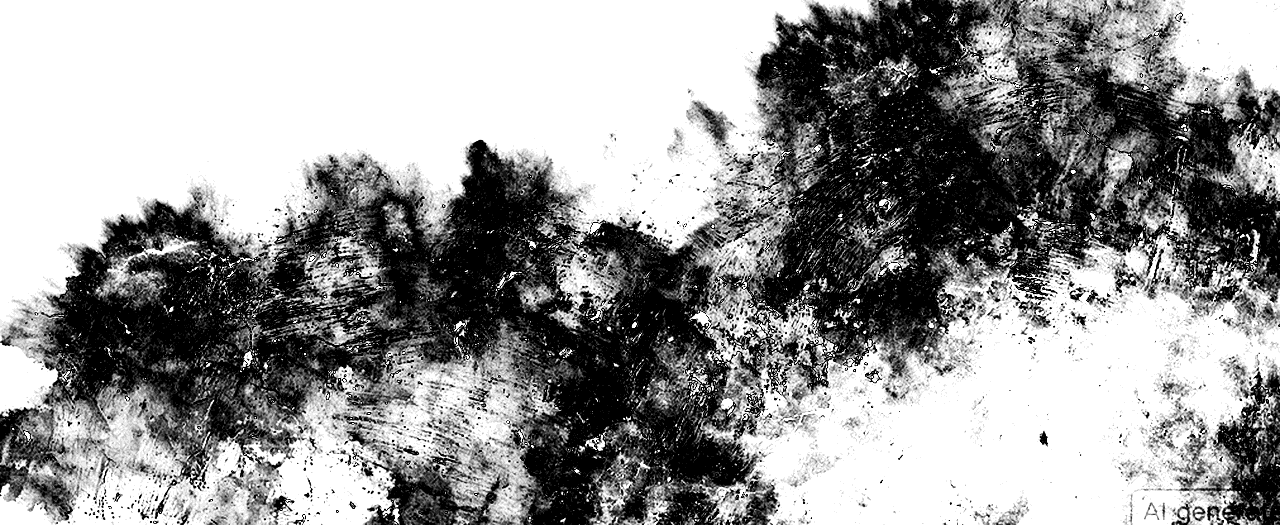
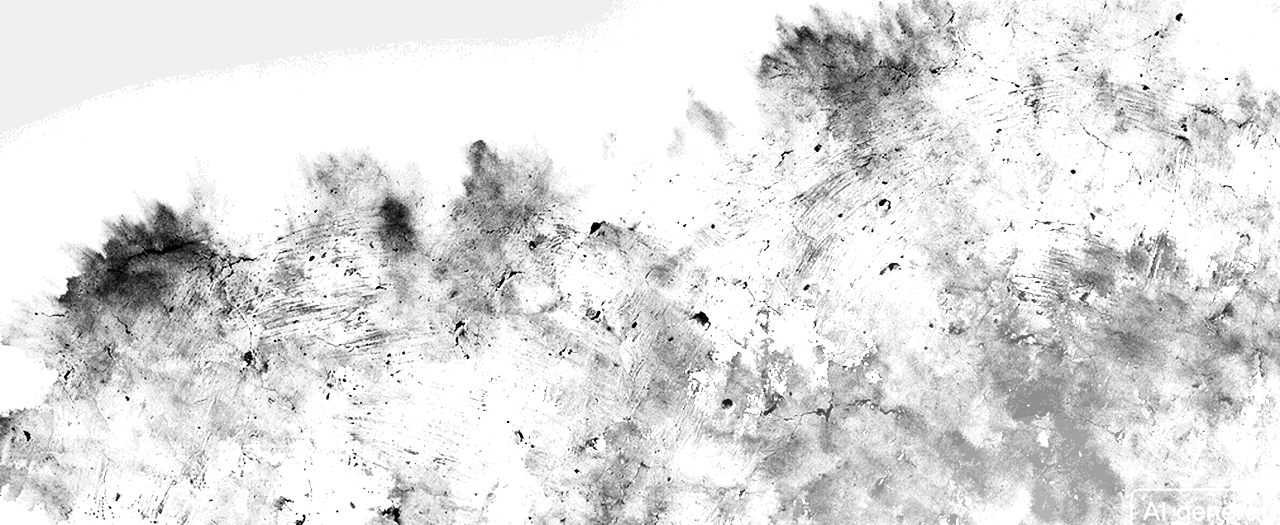
fix(ds): one edge between sections, straight-cut spines, no haze, and a matte clay wall
Four things, and the first is the one that mattered.

A category split into sections was knocking each of them out
separately, so where two met there were two edges hard against each
other: two lips, two shadows, twice the thickness of stone — a seam
that does not exist in one shelf. Neighbouring sections of the same
category on the same level are now knocked out as a single opening,
and what stays between them is what stays in a real shelf: one upright,
lit on one side and shadowed on the other.

Spines were rounded on top and their lids stuck out past the body — the
lid overhung seven pixels to the right and four above, which read as
crooked rather than as volume. The top of a spine is a straight cut
edge; that is what makes it a book and not a tile. The lid now ends
where the side face ends.

The haze is gone from the cut wall. Aerial perspective was an answer to
depth that could not be seen any other way; in a carved wall the cut
carries the depth — the reveals and the dark of the back — and the same
haze over it read as dirt on every cell before anything was even
selected.

And the surface is matte pale clay, nearly featureless. The model draws
a picture — one corner dense, another empty — which is right for a
landscape and wrong for a wall, where it means half the shelf band
sitting in a stain and half on bare sheet. prep-env now subtracts the
texture's own heavily blurred copy: the large swings, which are the
[…]

diff --git a/docs/design-system/prototypes/library-depth-2026-08-26.html b/docs/design-system/prototypes/library-depth-2026-08-26.html
@@ -486,6 +486,11 @@
     background: var(--paper);
     opacity: calc((1 - var(--depth, 1)) * 0.34);
   }
+  /* Повітряна перспектива була відповіддю на глибину, якої не було
+     видно інакше. У вирізаній стіні глибину несе сам виріз — укоси і
+     темрява дна, — і та сама димка поверх нього читалась брудом на
+     кожній комірці ще до будь-якого вибору. */
+  :root[data-env="on"] .niche__box::before { display: none; }
 
   /* Тінь усього блока на стіні — світло згори-справа, тінь сповзає
      вниз-вліво, м'яка і довга, як у предмета, що висить на стіні. */
@@ -646,10 +651,14 @@
   /* Полиця — креслярська лінія по лінійці. */
   /* ---------- книги ---------- */
 
+  /* КОРІНЕЦЬ НЕ ЗАОКРУГЛЮЄТЬСЯ ЗГОРИ. Радіус тут стояв від загального
+     правила «предмет має радіус», але книжка обрізана під ніж: верх
+     корінця — пряма грань, і саме нею він і читається книжкою, а не
+     плиткою. */
   .book {
     position: absolute;
     bottom: 2px;
-    border-radius: var(--r-object) var(--r-object) 0 0;
+    border-radius: 0 0 1px 1px;
     background-color: var(--fill);
     /* Корінець чистий — об'єм несуть грань, кришка і падаюча тінь,
        а не гравюрна штриховка. */
@@ -685,13 +694,19 @@
     transform-origin: left top;
     pointer-events: none;
   }
+  /* Кришка добудовується ЗА тілом корінця, а не поверх нього: раніше
+     вона вилазила праворуч на сім пікселів і зверху на чотири, і
+     книжка виглядала кривою, а не об'ємною. Тепер її права межа
+     збігається з бічною гранню, а нижня стоїть рівно на верхньому
+     ребрі. */
   .book__top {
     position: absolute;
-    left: 1px; right: -7px; top: -4px;
+    left: 0; right: -6px; top: -4px;
     height: 4px;
     background: var(--fill);
     border: 1px solid var(--ink-line);
-    transform: skewX(-46deg);
+    border-bottom: 0;
+    transform: skewX(-50deg);
     transform-origin: left bottom;
     pointer-events: none;
   }
@@ -1133,7 +1148,7 @@
   }
 </style>
 
-<span class="build" aria-hidden="true">зб. 35 · 27.08</span>
+<span class="build" aria-hidden="true">зб. 36 · 27.08</span>
 
 
 <div class="stage" aria-hidden="true">
@@ -1219,7 +1234,8 @@
   <div class="console__group">
     <span class="console__legend">Стіна · фактура</span>
     <div class="chips" id="envs">
-      <button class="chip" data-env="wall-rock" type="button" aria-pressed="true">камінь</button>
+      <button class="chip" data-env="wall-matte" type="button" aria-pressed="true">матова глина</button>
+      <button class="chip" data-env="wall-rock" type="button" aria-pressed="false">камінь</button>
       <button class="chip" data-env="wall-clay" type="button" aria-pressed="false">глина</button>
       <button class="chip" data-env="wall-plaster" type="button" aria-pressed="false">тиньк</button>
       <button class="chip" data-env="" type="button" aria-pressed="false">без малюнка</button>
@@ -1554,6 +1570,14 @@
      решту рахує envFit. Пише їх prep-env.py, руками сюди нічого не
      вписується. */
   var ENVS = {
+  "wall-matte": {
+    "tex": "assets/env-wall-matte.webp",
+    "body": "env-wall-matte-body.webp",
+    "w": 1280,
+    "h": 1266,
+    "pos": [0.5, 0.5],
+    "posNarrow": [0.5, 0.5]
+  },
   "wall-rock": {
     "tex": "assets/env-wall-rock.webp",
     "body": "env-wall-rock-body.webp",
@@ -2575,13 +2599,46 @@
 
   /* Отвори вибиваються з готового матеріалу і одразу отримують нутро. */
   function openings(g, dark, lc, sd, pc) {
-    caseEls.forEach(function (el, k) {
-      var x = parseFloat(el.style.left), y = parseFloat(el.style.top);
-      var w = el.offsetWidth, h = el.offsetHeight;
-      if (!w || !h) return;
-      var depth = parseFloat(el.style.getPropertyValue("--depth")) || 0.7;
-      var seed = Number(el.dataset.case) * 13 + k;
-      var bite = Math.max(1.2, Math.min(4.5, w * 0.03));
+    /* СПІЛЬНА ГРАНЬ — ОДНА ЛІНІЯ.
+       Категорія на десяток праць розрізана на кілька секцій, і кожна
+       досі вибивалась окремо. Там, де вони сходились, виходило два
+       краї впритул: дві губи, дві тіні, подвійна товщина каменю — шов,
+       якого в одній полиці не буває. Тепер сусідні секції ОДНІЄЇ
+       категорії, що стоять на одному рівні, вибиваються одним
+       отвором, а між ними лишається те, що й лишається в справжній
+       полиці: одна перемичка. */
+    var runs = [], cur = null;
+    var list = caseEls.map(function (el, k) {
+      return {
+        el: el, k: k, ci: Number(el.dataset.case),
+        x: parseFloat(el.style.left), y: parseFloat(el.style.top),
+        w: el.offsetWidth, h: el.offsetHeight,
+        t: Number(el.dataset.cut) || 6,
+        depth: parseFloat(el.style.getPropertyValue("--depth")) || 0.7
+      };
+    }).filter(function (q) { return q.w && q.h; });
+    list.sort(function (a, b) { return a.ci - b.ci || a.y - b.y || a.x - b.x; });
+    list.forEach(function (q) {
+      var join = cur && cur.ci === q.ci &&
+        Math.abs(cur.y - q.y) <= 2 && Math.abs(cur.h - q.h) <= 2 &&
+        q.x - (cur.x + cur.w) <= Math.max(10, cur.t * 1.6) &&
+        q.x >= cur.x;
+      if (join) {
+        cur.cuts.push(q.x - (q.x - (cur.x + cur.w)) / 2);   /* середина шва */
+        cur.w = q.x + q.w - cur.x;
+        cur.t = Math.min(cur.t, q.t);
+        cur.parts.push(q);
+      } else {
+        cur = { ci: q.ci, x: q.x, y: q.y, w: q.w, h: q.h, t: q.t,
+                depth: q.depth, cuts: [], parts: [q], k: q.k };
+        runs.push(cur);
+      }
+    });
+
+    runs.forEach(function (r) {
+      var x = r.x, y = r.y, w = r.w, h = r.h;
+      var seed = r.ci * 13 + r.k;
+      var bite = Math.max(1.2, Math.min(4.5, Math.min(w, h) * 0.05));
 
       /* 1. МАТЕРІАЛ ЗАКІНЧУЄТЬСЯ. */
       g.save();
@@ -2596,26 +2653,23 @@
       g.save();
       g.clip();
       var back = g.createLinearGradient(0, y, 0, y + h);
-      back.addColorStop(0, rgba(sd, 0.66 + depth * 0.22));
-      back.addColorStop(0.55, rgba(sd, 0.42 + depth * 0.2));
-      back.addColorStop(1, rgba(sd, 0.3 + depth * 0.16));
+      back.addColorStop(0, rgba(sd, 0.66 + r.depth * 0.22));
+      back.addColorStop(0.55, rgba(sd, 0.42 + r.depth * 0.2));
+      back.addColorStop(1, rgba(sd, 0.3 + r.depth * 0.16));
       g.fillStyle = back;
       g.fillRect(x, y, w, h);
 
       /* 3. УКОСИ — товщина стіни. Світло згори-праворуч: лівий укіс і
          дно ловлять його, верхній і правий лишаються в тіні. Малюються
          трапеціями від краю отвору до внутрішнього прямокутника — це і
-         є перспектива коробки, тільки чесна, без точки сходу. */
-      var t = Number(el.dataset.cut) ||
-        Math.max(3, Math.min(22, Math.min(w, h) * (0.10 + depth * 0.10)));
-      /* УКІС ЖИВЕ, ПОКИ ЙОГО ВИДНО. На стіні в сотню-триста праць
+         є перспектива коробки, тільки чесна, без точки сходу.
+         УКІС ЖИВЕ, ПОКИ ЙОГО ВИДНО: на стіні в сотню-триста праць
          отвір має сорок пікселів по короткій стороні, і чотири
          трапеції в ньому — не глибина, а брудна облямівка. Поріг тут
-         не власний: це той самий стан far, у якому стіна вже
-         відмовилась від назв на корінцях. Одне рішення на дві
-         відмови — на такій відстані стіна читається кількістю
-         отворів, а не тим, що всередині них. Лишається губа, і вона
+         не власний, це той самий стан far, у якому стіна вже
+         відмовилась від назв на корінцях. Лишається губа, і вона
          гучніша: тепер увесь виріз тримає вона. */
+      var t = r.t;
       var thin = t < 4.5 || room.dataset.far === "true";
       var ix = x + t, iy = y + t, iw = w - t * 2, ih = h - t * 2;
       function face(pts, col, a) {
@@ -2626,18 +2680,32 @@
         g.fill();
       }
       if (!thin) {
-      face([[x, y], [x + w, y], [ix + iw, iy], [ix, iy]], sd, 0.5);              /* верх — тінь */
-      face([[x + w, y], [x + w, y + h], [ix + iw, iy + ih], [ix + iw, iy]], sd, 0.3); /* правий */
-      /* У темряві виріз читається не тінню, а СВІТЛОМ на укосі: тінь
-         там нічим не відрізняється від ґрунту, бо ґрунт і сам темний.
-         Тому освітлені грані в темній темі гучніші, а не тихіші. */
-      face([[x, y], [ix, iy], [ix, iy + ih], [x, y + h]], lc, dark ? 0.3 : 0.3);
-      face([[x, y + h], [ix, iy + ih], [ix + iw, iy + ih], [x + w, y + h]],
-           lc, dark ? 0.4 : 0.42);
+        face([[x, y], [x + w, y], [ix + iw, iy], [ix, iy]], sd, 0.5);
+        face([[x + w, y], [x + w, y + h], [ix + iw, iy + ih], [ix + iw, iy]], sd, 0.3);
+        /* У темряві виріз читається не тінню, а СВІТЛОМ на укосі: тінь
+           там нічим не відрізняється від ґрунту, бо ґрунт і сам
+           темний. Тому освітлені грані в темній темі гучніші. */
+        face([[x, y], [ix, iy], [ix, iy + ih], [x, y + h]], lc, 0.3);
+        face([[x, y + h], [ix, iy + ih], [ix + iw, iy + ih], [x + w, y + h]],
+             lc, dark ? 0.4 : 0.42);
       }
+
+      /* 4. ПЕРЕМИЧКА між секціями однієї категорії — одна, і вона з
+         каменю: світло з правого боку, тінь з лівого. */
+      r.cuts.forEach(function (cx, n) {
+        var pw = Math.max(1.4, Math.min(6, t * 0.6));
+        var g1 = g.createLinearGradient(cx - pw, 0, cx + pw, 0);
+        g1.addColorStop(0, rgba(sd, 0.42));
+        g1.addColorStop(0.5, rgba(lc, dark ? 0.34 : 0.5));
+        g1.addColorStop(1, rgba(sd, 0.42));
+        g.fillStyle = g1;
+        var jitter = (seeded(seed * 17 + n) - 0.5) * 1.4;
+        g.fillRect(cx - pw / 2 + jitter, y + (thin ? 1 : t * 0.5),
+                   pw, h - (thin ? 2 : t));
+      });
       g.restore();
 
-      /* 4. ГУБА. Передній край різу: знизу і праворуч він ловить
+      /* 5. ГУБА. Передній край різу: знизу і праворуч він ловить
          світло, згори і ліворуч — темніє. Одна лінія в піксель тут не
          годиться: край сколотий, отже і лінія йде тим самим щербатим
          контуром. */
@@ -3405,9 +3473,9 @@
 
   /* setTheme викликається ЗАВЖДИ, навіть для «системної»: інлайн-фарби
      на body — єдине, чого не переб'є жоден стиль хоста артефакта. */
-  var savedEnv = "wall-rock";
-  try { savedEnv = window.localStorage.getItem("cw-proto-env"); } catch (e) { savedEnv = "wall-rock"; }
-  setEnv(savedEnv === null ? "wall-rock" : savedEnv);
+  var savedEnv = "wall-matte";
+  try { savedEnv = window.localStorage.getItem("cw-proto-env"); } catch (e) { savedEnv = "wall-matte"; }
+  setEnv(savedEnv === null ? "wall-matte" : savedEnv);
   var savedGround = "graphite";
   try { savedGround = window.localStorage.getItem("cw-proto-ground") || "graphite"; } catch (e) { /* приватне вікно */ }
   setGround(savedGround);

diff --git a/scripts/design/prep-env.py b/scripts/design/prep-env.py
@@ -19,7 +19,7 @@ import json
 import os
 
 import numpy as np
-from PIL import Image
+from PIL import Image, ImageFilter
 
 SRC = "docs/design-system/prototypes/assets/art"
 OUT = "docs/design-system/prototypes/assets"
@@ -34,6 +34,30 @@ def density(im):
     floor = float(np.percentile(a, 0.5))
     d = np.clip((paper - a) / max(paper - floor, 1e-3), 0, 1)
     return d ** 1.15
+
+
+def flatten(dens, radius=0.18, keep=0.42):
+    """Зняти з фактури композицію, лишити матеріал.
+
+    Модель малює картину: один кут густий, другий порожній. Стіні це
+    шкодить — половина смуги з полицями сидить у плямі, половина на
+    чистому аркуші, і жодна розкладка цього не виправить. Тут із
+    щільності віднімається її ж сильно розмита копія: великі перепади
+    (та сама композиція) зникають, дрібне зерно, тріщини й пори
+    лишаються. Далі контраст пригнічується — матова світла глина, а не
+    туш по мокрому.
+
+    radius — частка меншої сторони, за якою «велике» вважається
+    композицією; keep — скільки лишити від початкового розмаху.
+    """
+    h, w = dens.shape
+    r = max(8, int(min(w, h) * radius))
+    blur = np.asarray(
+        Image.fromarray((dens * 255).astype(np.uint8))
+        .filter(ImageFilter.GaussianBlur(r)), np.float32) / 255.0
+    flat = dens - blur + float(dens.mean())
+    flat = np.clip(flat, 0, 1)
+    return np.clip((flat - flat.mean()) * keep + flat.mean() * keep, 0, 1)
 
 
 def material_box(dens, edge=0.06):
@@ -67,6 +91,7 @@ def prep(name, key):
             im = im.crop(box)
             im = im.resize((W, round(W * im.size[1] / im.size[0])), Image.LANCZOS)
             dens = density(im)
+        dens = flatten(dens)
 
     rgba = np.zeros(dens.shape + (4,), np.uint8)
     rgba[..., 3] = (dens * 255).astype(np.uint8)
